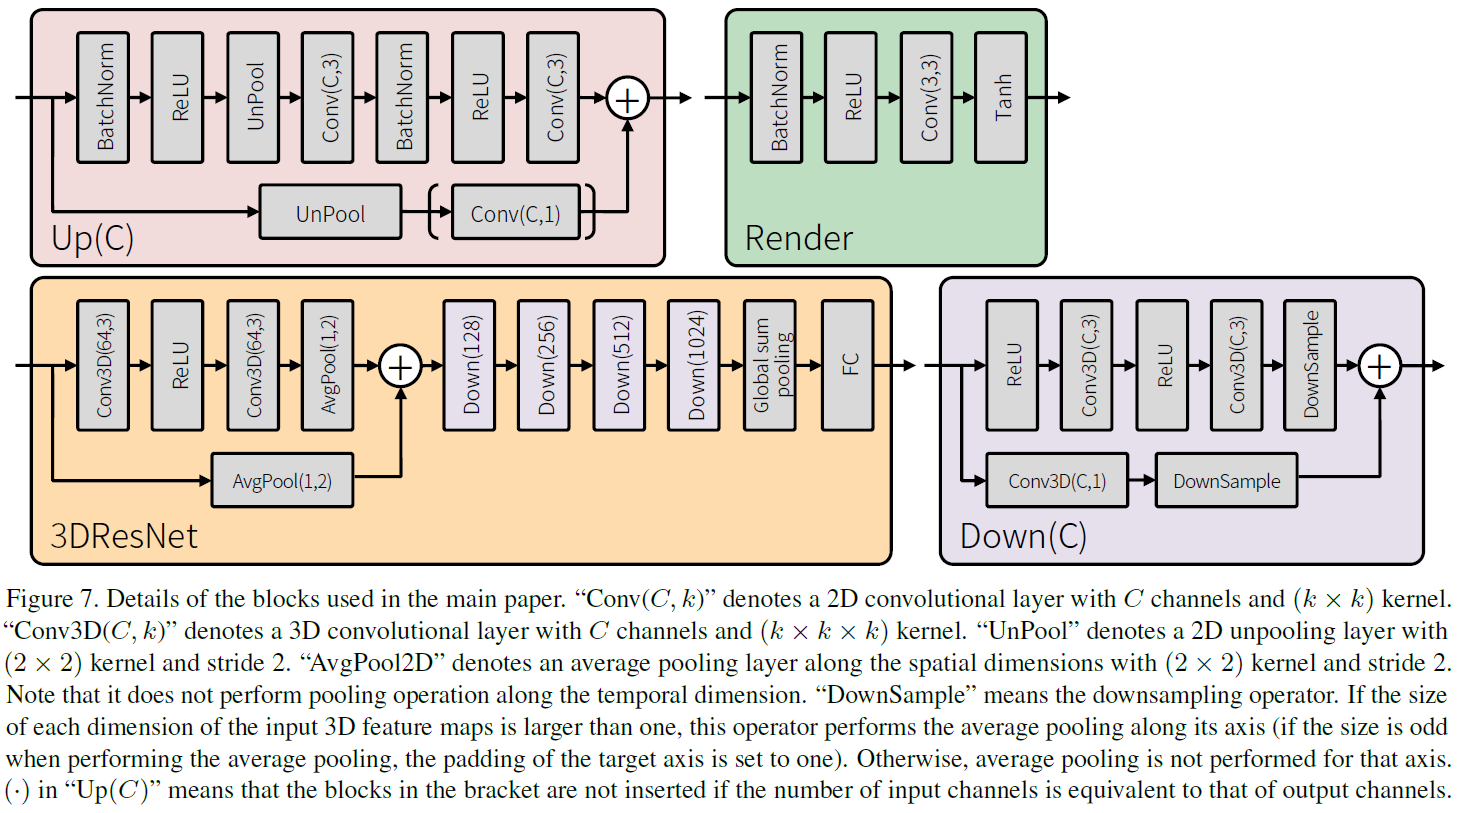
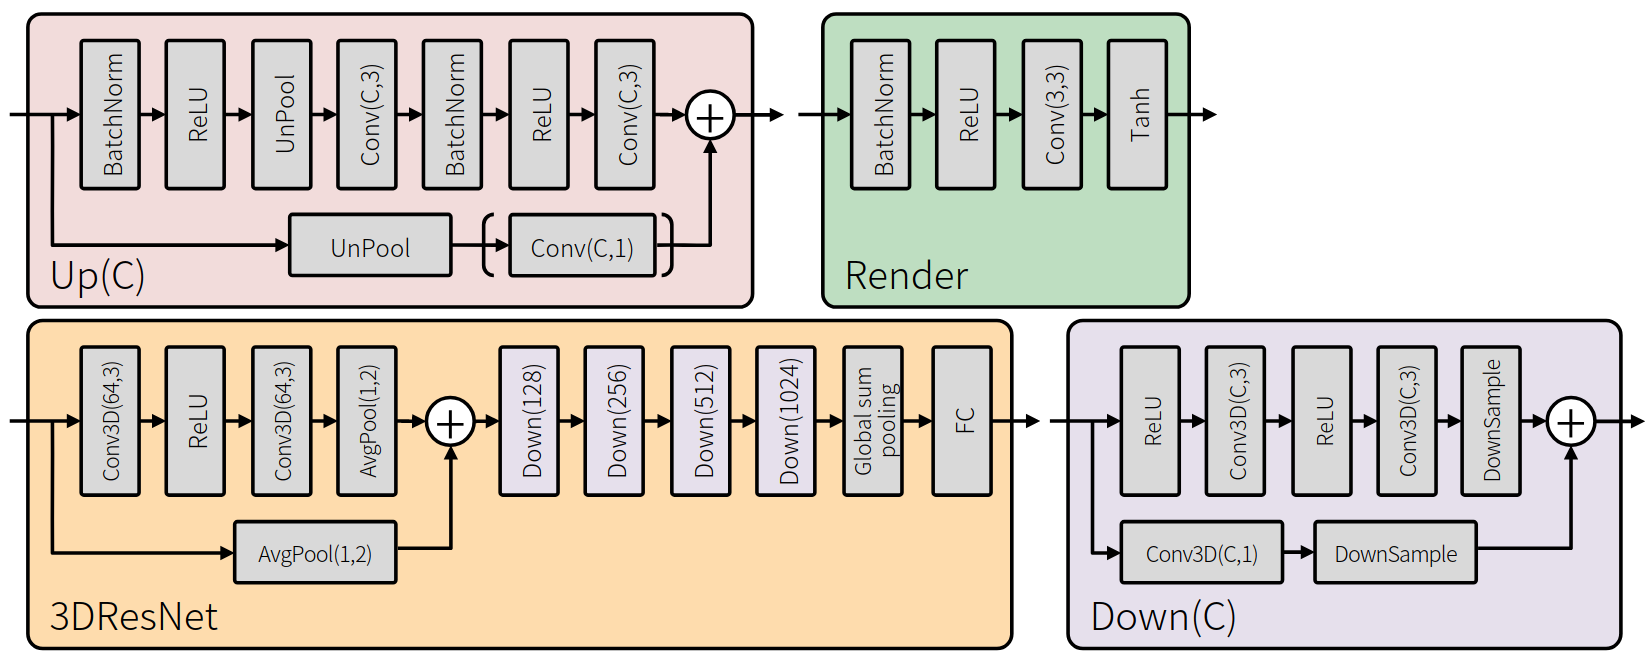
refined tganv2

diff --git a/summaries/2018/2018-tganv2-efficient-training-of-large-models-for-video-generation-with-multiple-subsampling-layers.md b/summaries/2018/2018-tganv2-efficient-training-of-large-models-for-video-generation-with-multiple-subsampling-layers.md
@@ -19,6 +19,8 @@
 
 ### APPLICATIONS SUMMARY
 
+- Unconditional video generation
+
 ### ARCHITECTURE SUMMARY
 
 ![architecture-1.png](images/2018-tganv2-efficient-training-of-large-models-for-video-generation-with-multiple-subsampling-layers/architecture-1.png "Architecture overview")
@@ -82,8 +84,7 @@ Training with multiple subsampling layers:
 
 There exists a trade-off between the efficient computation with a subsampling layer and the quality of a generated sample. When the dimensionality of a sample comes from S is small, we can efficiently train the network, but the quality tends to decrease. Thus, it requires careful hyper-parameter tuning to balance the trade-off when using a single subsampling layer. However, by introducing a generator that yields several samples rendered at multiple levels (e.g., multiple resolutions or multiple frame rates), we can efficiently train the network without significantly sacrificing the quality.
 
-Almost all generators including DCGAN [37] and SA-GAN [54] have a network structure that first yields a spatially small feature map with many channels and gradually transforms it into a larger one with fewer channels. In this case, the initial
-block in the generator has a large number of parameters, but its computational cost is relatively low. On the other hand, although the number of parameters in the latter block is quite smaller, it takes a lot of time for the computation. Therefore, when using the subsampling layer, reducing the abstract map in the initial block is not advantageous from the viewpoint of computational cost, while it is desirable to reduce the abstract maps in the latter blocks aggressively.
+Almost all generators including DCGAN [37] and SA-GAN [54] have a network structure that first yields a spatially small feature map with many channels and gradually transforms it into a larger one with fewer channels. In this case, the initial block in the generator has a large number of parameters, but its computational cost is relatively low. On the other hand, although the number of parameters in the latter block is quite smaller, it takes a lot of time for the computation. Therefore, when using the subsampling layer, reducing the abstract map in the initial block is not advantageous from the viewpoint of computational cost, while it is desirable to reduce the abstract maps in the latter blocks aggressively.
 
 In our method, we introduce the generator consisting of L abstract blocks, L rendering blocks, and L - 1 subsampling layers. We respectively denote them as $g^A_l$, $g^R_l$, and S^G_l. In the inference, x can be evaluated simply by sequentially applying abstract blocks and rendering with a single g^R_L
 
@@ -115,12 +116,10 @@ Suppose a generator yielding a video with T frames and W x H pixels. Unlike othe
 
 Figure 2. Network configuration of our model. “CLSTM(C)” represents the convolutional LSTM with C channels and 3 x 3 kernel. “Up(C)” means the upsampling block that returns a feature map with C channels and twice the resolution of the input.
 
-Given d-dimensional noise vector z randomly drawn from the uniform distribution within a range of [-1, 1], the generator converts it into a feature map of (W/64) x (H/64) pixels with a fully-connected layer. A recurrent block consisting of a Convolutional LSTM [42] receives this feature map as an input, and then returns another feature map with the same shape. This map from z is used to initialize the state of the CLSTM. For $t \geq 1$ the CLSTM always gets a map from a zero vector as input. After that, each feature map is transformed into another feature
-map with W x H pixels by six upsampling blocks, and a rendering block renders it into the frame.
+Given d-dimensional noise vector z randomly drawn from the uniform distribution within a range of [-1, 1], the generator converts it into a feature map of (W/64) x (H/64) pixels with a fully-connected layer. A recurrent block consisting of a Convolutional LSTM [42] receives this feature map as an input, and then returns another feature map with the same shape. This map from z is used to initialize the state of the CLSTM. For $t \geq 1$ the CLSTM always gets a map from a zero vector as input. After that, each feature map is transformed into another feature map with W x H pixels by six upsampling blocks, and a rendering block renders it into the frame.
 
 Our discriminator consists of several sub-discriminators. In the experiments, we
-use four 3D ResNet models, where each model has several spatio-temporal three-dimensional residual blocks [16, 17] and one fully-connected layer.
-(The network configuration of 3D ResNet itself is almost the same as the discriminator used in the "Spectral Normalization for Generative Adversarial Networks" paper except the kernel of all convolutional layers is replaced with (3 x 3) to (3 x 3 x 3)).
+use four 3D ResNet models, where each model has several spatio-temporal three-dimensional residual blocks [16, 17] and one fully-connected layer. (The network configuration of 3D ResNet itself is almost the same as the discriminator used in the "Spectral Normalization for Generative Adversarial Networks" paper except the kernel of all convolutional layers is replaced with (3 x 3) to (3 x 3 x 3)).
 
 Suppose abstract map h has a shape of $(N_h \times C_h \times T_h \times H_h \times W_h$), where each variable denotes batch size, channels, number of frames, height, and width. The subsampling layer reduces the shape of h to $(N_h/s_n \times C_h \times T_h/s_t \times H_h \times W_h)$.
 
@@ -128,6 +127,8 @@ The subsampling layers can be represented by `hd = h[::sn, :, bt::st]` in numpy 
 We used sn = 2 and st = 2 in all the experiments; that is, the dimensionality of the four rendered videos are almost equivalent since the upsampling block doubles width and height while the number of frames and the batch size are halved. This strategy to make the size of rendered tensor constant also has the advantage that the total amount of consumed memory increases only linearly, even if the resolution of the generated video is doubled.
 
 ![architecture-3.png](images/2018-tganv2-efficient-training-of-large-models-for-video-generation-with-multiple-subsampling-layers/architecture-3.png "Architecture overview")
+
+Figure 7. Details of the blocks used in the main paper. “Conv(C, k)” denotes a 2D convolutional layer with C channels and (k x k) kernel. “Conv3D(C, k)” denotes a 3D convolutional layer with C channels and (k x k x k) kernel. “UnPool” denotes a 2D unpooling layer with (2 x 2) kernel and stride 2. “AvgPool2D” denotes an average pooling layer along the spatial dimensions with (2 x 2)kernel and stride 2. Note that it does not perform pooling operation along the temporal dimension. “DownSample” means the down-sampling operator. If the size of each dimension of the input 3D feature maps is larger than one, this operator performs the average pooling along its axis (if the size is odd when performing the average pooling, the padding of the target axis is set to one). Otherwise, average pooling is not performed for that axis.(.) in “Up(C)” means that the blocks in the bracket are not inserted if the number of input channels is equivalent to that of output channels.
 
 ### AUTHORS
 
@@ -174,7 +175,9 @@ Regarding the classifier used for computing IS and FID, we used a pre-trained mo
 
 ![qualitative-faces-1.png](images/2018-tganv2-efficient-training-of-large-models-for-video-generation-with-multiple-subsampling-layers/qualitative-faces-1.png "Qualitative results on faces dataset.")
 
-Figure 3. Example of videos generated by TGANv2. Our model successfully generated facial videos with high resolution (256 x 256) without causing a large mode collapse.
+Figure 3. Example of videos generated by TGANv2. Due to the size of the paper, each frame is resized to 128 x 128 pixels.
+
+Our model successfully generated facial videos with high resolution (256 x 256) without causing a large mode collapse.
 
 One of the main reasons why it could produce such various videos even if the dataset has high resolution videos is that our method allows large batch size in the beginning part of the generator. Initial batch size is 64, and it gradually decreases to 32, 16, and 8 as the level goes deeper.
 
@@ -185,6 +188,21 @@ Even if the resolution was only 64 x 64 pixels, the batch sizes of videos used i
 Figure 4. Example of videos generated at different levels. The leftmost image represents the frame of the video generated by the initial rendering block, and the rightmost one denotes the final generated image.
 
 To check whether each rendering block generates the same content under the same z, we visualized the result of each rendering block in Figure 4. Interestingly, every rendering block in our method correctly generated the same content even though it does not perform a color-consistency regularization introduced in StackGAN++ [55].
+
+Experiments of memory capacity:
+Although our model succeeded in generating more de-tailed shapes such as person’s shadow than those in TGANand Progressive VGAN, the generated video itself still hasroom for improvement. Based on the background where thisproblem was not clearly explained in the existing studies, inthis section we discuss the hypothesis that the main reason isdue to thememory capacity. Unlike the FaceForensics [39]containing many similar parts, the UCF101 dataset has manydiverse videos that do not include overlapping clips. Thus,measuring the inception score when reducing the number ofvideos per category, we can roughly estimate the memorycapacity in the model.
+
+![qualitative-num-samples.png](images/2018-tganv2-efficient-training-of-large-models-for-video-generation-with-multiple-subsampling-layers/qualitative-num-samples.png "Results after training with different number of samples.")
+
+Figure 5. Changes of generated samples when changing the number of samples used for training.
+
+![qualitative-num-samples-graph.png](images/2018-tganv2-efficient-training-of-large-models-for-video-generation-with-multiple-subsampling-layers/qualitative-num-samples-graph.png "Graph of IS after training with different number of samples.")
+
+Figure 6. Transition of inception score when the number of samplesper category is limited. As the number of categories in the dataset is 101, the total number of samples used for training is 101 x N.
+
+The results are shown in Figures 5 and 6. When the number of samples per category is small, the quality of the generated video is clearly higher than that trained with the original dataset. It means that the model has potential powerof expression to generate natural videos. The score gradually decreased as the number of samples gradually increased, and it almost converged to a constant when the number ofsamples exceeded 1,000. This implies that the problem ofthe current model is primarily due to memory capacity.
+
+The generator for videos clearly needs more memory capacity than that for still images. When linearly moving $z$ of the GAN for still images, a created image is one like a morphing connecting two images smoothly. We consider that our model needs more memory capacity in order to supportmany essential transformations that cannot be created bysuch morphing. Considering that the current parameter size in the generator is only 312 MB while the uncompressed UCF-101 dataset used for training is about 200 GB, we predict it needs to drastically increase the number of parameters to generate high fidelity natural videos.
 
 ### QUANTITATIVE EVALUATION SUMMARY
 
@@ -223,6 +241,16 @@ It should be noted that this score cannot be achieved by simply making the outpu
 ### RELATED WORK
 
 - [Generative Adversarial Networks (GANs)](https://papers.nips.cc/paper/5423-generative-adversarial-nets)
+
+Image generation: Many applications of the GenerativeAdversarial Network [13] mainly focus on image generation problem; this is primarily because that DCGAN [37] demonstrated that the GAN is quite effective in image generation. After that, the DCGAN was extended to a network called SA-GAN [54] that includes spectral normalization [33] and self-attention blocks [51].  BigGAN [5] succeeded in generating high fidelity images by introducing several tricks such as orthogonal regularization that stabilizes the training with large batch size. In image-to-image translation problem that transfers an input image from another domain, there exists many studies for transforming high resolution images[20,50,58,28,19].
+
+Multi-scale GANs: Our approach is related to methods inwhich a generator produces multi-scale images. LAPGAN[8] first generates a coarse image and updates it by using a difference of an initial image. StackGAN [56,55] directly generates multi-scale images, and the corresponding discriminator returns a score from each image.  ProgressiveGAN[23] generates high-resolution images by growing both the generator and the discriminator
+
+Video prediction: Video prediction, which estimates subsequent images from a given few frames, is one of the major problems  in  computer  vision.   Although  there  is  no  unified  view  on  how  to  model  the  domain  of  video,  many studies dealing with video prediction problem directly predict the next frame with recurrent networks such as LSTM[38,34,44,21,11,30,10,3,6,9,25].
+
+Video-to-video translation: Recently, several studies havesucceeded in converting high-resolution videos into other ones in a different domain. RecycleGAN [4] extends a concept of CycleGAN [58], and solves a video retargeting problem with two video datasets for which correspondences are not given. Vid2Vid [49] learns a model that maps a source domain into an output one from a pair of videos and generates high resolution videos.  Contrary to these models that can be trained well with a small batch size, the generative model for videos generally requires a large batch size.
+
+Video generation: There are two major approaches in the field of video generation using GANs.  One is a study for generating plausible videos by limiting a video dataset to aspecific area such as human pose and face [7,57,53]. An-other one is a study that can handle any datasets without such restriction [48,40,35,47,1].  Our study is related tothe latter. VGAN [48] exploits 3D convolutional networks to generate videos. TGAN [40] first generates a set of latent vectors corresponding to each frame and then transforms them into actual images. MoCoGAN [47] produces videos more efficiently by decomposing the latent space into themotion and the content subspaces. Although these models illustrate that models using GAN are also effective in videogeneration, they have a problem of requiring a relatively large computational cost.   Acharyaet al. [1] proposed a method of generating high-resolution videos with Progres-siveGAN [23].
 
 ### RESULTS
 
